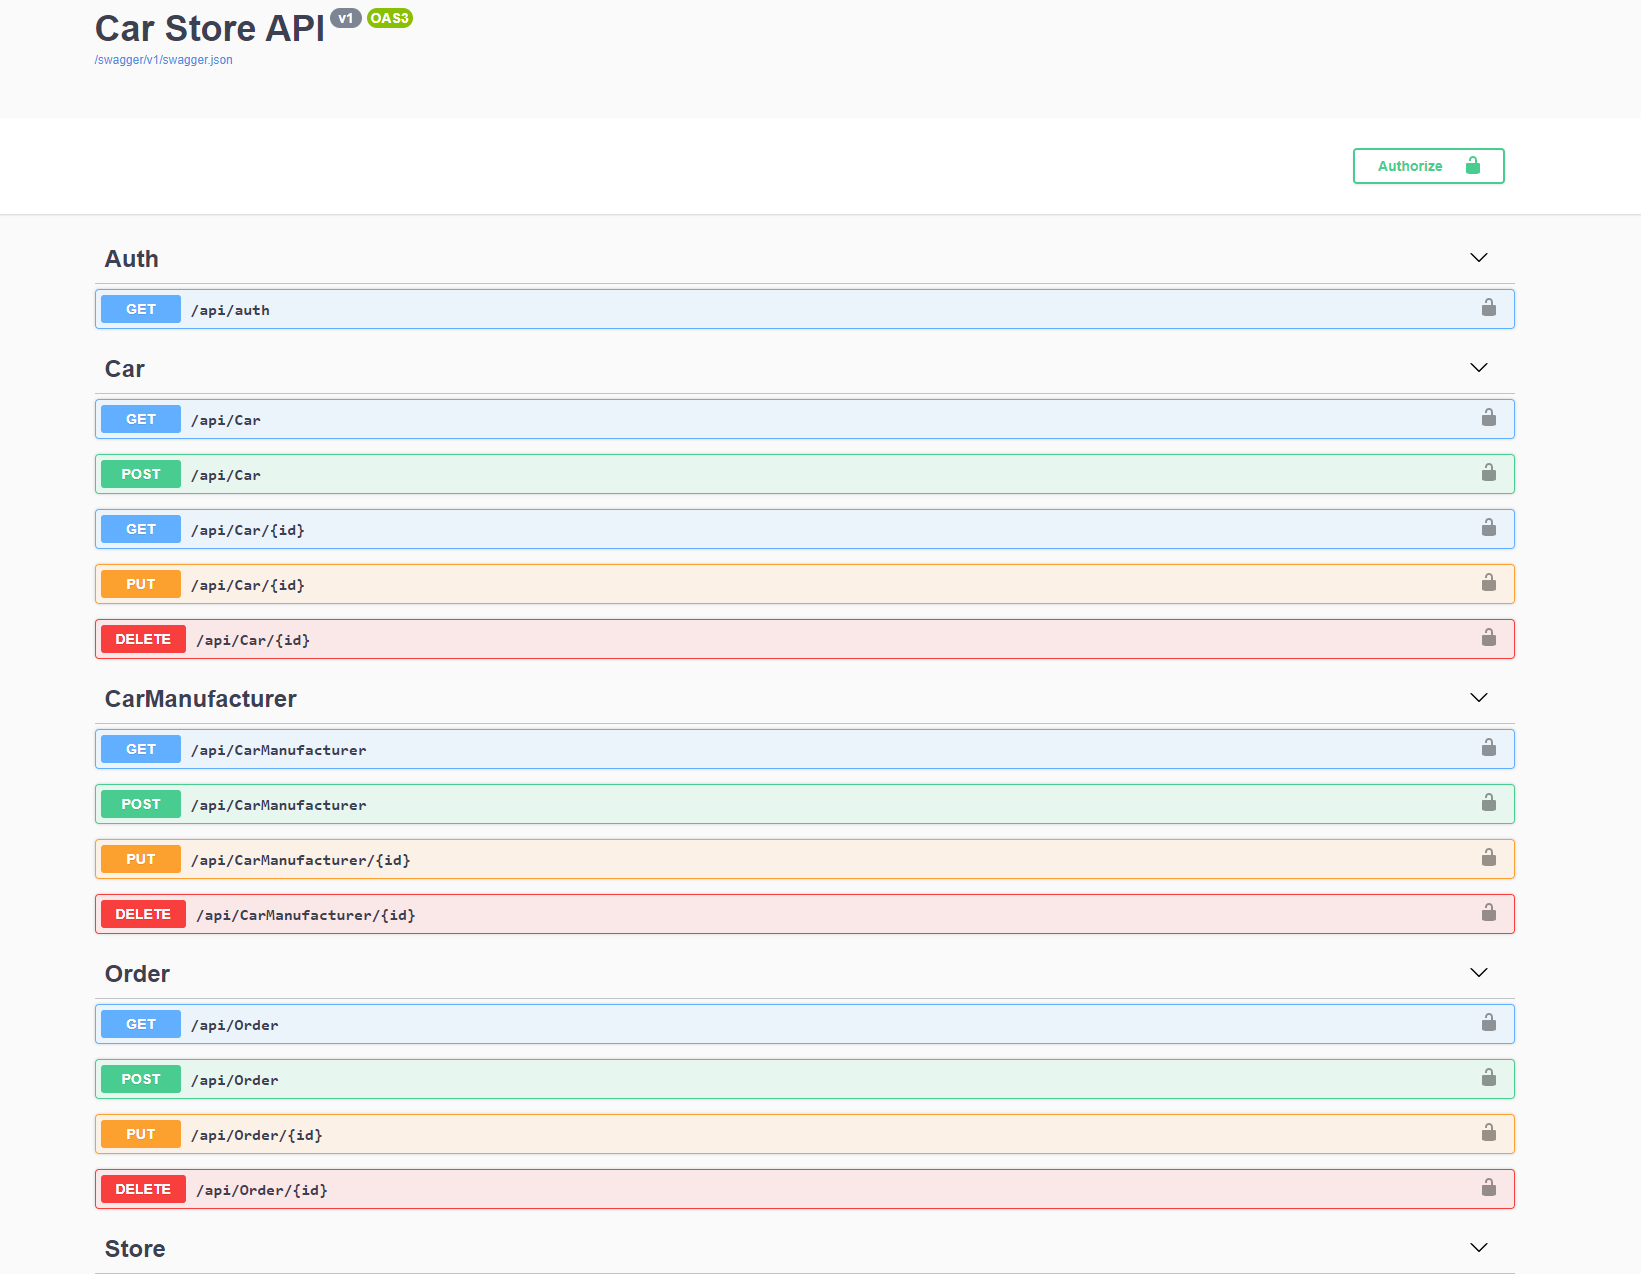
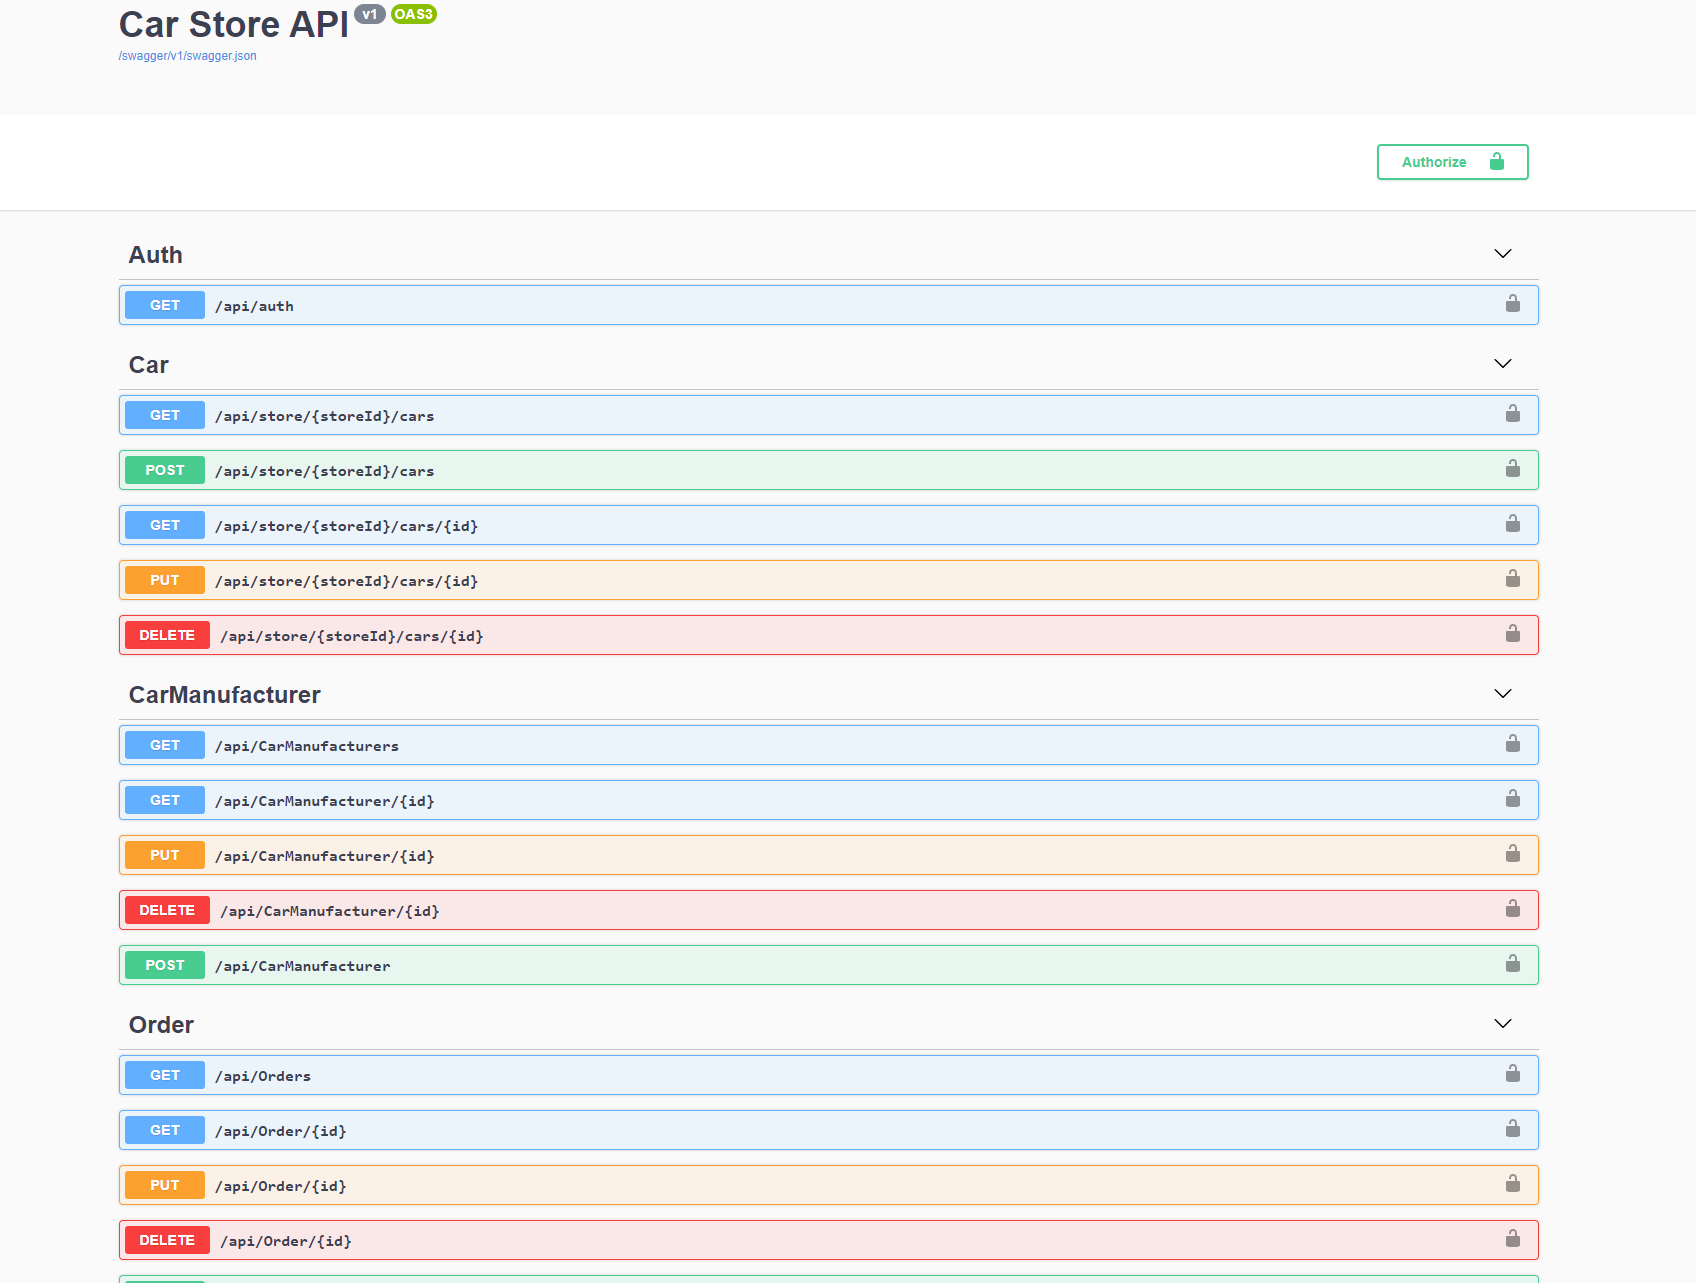
created endpoints for "child" resources

diff --git a/Project/CarStore/Controllers/CarController.cs b/Project/CarStore/Controllers/CarController.cs
@@ -1,5 +1,7 @@
-using System.Collections.Generic;
+using System;
+using System.Collections.Generic;
 using System.Linq;
+using System.Threading;
 using System.Threading.Tasks;
 using AutoMapper;
 using CarStore.API.Extensions;
@@ -10,10 +12,11 @@ using CarStore.Domain.Services;
 using CarStore.Domain.Services.Communication;
 using Microsoft.AspNetCore.Authorization;
 using Microsoft.AspNetCore.Mvc;
+using Microsoft.EntityFrameworkCore.Diagnostics;
 
 namespace CarStore.API.Controllers
 {
-    [Route("api/[controller]")]
+    [Route("api/store/{storeId}/cars")]
     [Authorize]
     public class CarController : BaseController
     {
@@ -29,18 +32,23 @@ namespace CarStore.API.Controllers
         }
 
         [HttpGet]
-        public async Task<IEnumerable<CarResource>> GetAllAsync()
+        public async Task<IEnumerable<CarResource>> GetAllAsync(int storeId, CancellationToken token)
         {
-            var cars = await _carService.ListAsync();
+            var cars = await _carService.ListAsync(storeId, token);
             var resources = _mapper.Map<IEnumerable<Car>, IEnumerable<CarResource>>(cars);
 
             return resources;
         }
 
         [HttpGet("{id}")]
-        public async Task<IActionResult> GetAsync(int id)
+        public async Task<IActionResult> GetAsync(int storeId, int id)
         {
-            var car = await _carService.GetAsync(id);
+            if (storeId < 0 || id < 0)
+            {
+                throw new ArgumentException("Negative parameter exception");
+            }
+
+            var car = await _carService.GetAsync(storeId, id);
             if (car == null)
             {
                 return NotFound();
@@ -53,11 +61,11 @@ namespace CarStore.API.Controllers
             var resource = _mapper.Map<Car, CarResource>(car);
 
             return Ok(resource);
-
         }
 
+
         [HttpPost]
-        public async Task<IActionResult> PostAsync([FromBody] SaveCarResource resource)
+        public async Task<IActionResult> PostAsync(int storeId, [FromBody] SaveCarResource resource)
         {
             if (!ModelState.IsValid)
             {
@@ -66,7 +74,7 @@ namespace CarStore.API.Controllers
 
             var carModel = _mapper.Map<SaveCarResource, Car>(resource);
 
-            var result = await _carService.SaveAsync(carModel);
+            var result = await _carService.SaveAsync(storeId, carModel);
 
             if (!result.Success)
             {
@@ -79,7 +87,7 @@ namespace CarStore.API.Controllers
         }
 
         [HttpPut("{id}")]
-        public async Task<IActionResult> PutAsync(int id, [FromBody] SaveCarResource resource)
+        public async Task<IActionResult> PutAsync(int storeId, int id, [FromBody] SaveCarResource resource)
         {
             if (!ModelState.IsValid)
             {
@@ -95,7 +103,7 @@ namespace CarStore.API.Controllers
 
             var carModel = _mapper.Map<SaveCarResource, Car>(resource);
 
-            var result = await _carService.UpdateAsync(id, carModel, ETag);
+            var result = await _carService.UpdateAsync(storeId, id, carModel, ETag);
 
             if (!result.Success)
             {

diff --git a/Project/CarStore/Services/CarService.cs b/Project/CarStore/Services/CarService.cs
@@ -1,10 +1,12 @@
 using System;
 using System.Collections.Generic;
 using System.Linq;
+using System.Threading;
 using System.Threading.Tasks;
 using AutoMapper;
 using CarStore.API.Helpers;
 using CarStore.API.Resource;
+using CarStore.Domain.DataAccess.Repositories;
 using CarStore.Domain.Models;
 using CarStore.Domain.Repositories;
 using CarStore.Domain.Services;
@@ -17,26 +19,35 @@ namespace CarStore.API.Services
     public class CarService : ICarService
     {
         private readonly ICarRepository _carRepository;
+        private readonly IStoreRepository _storeRepository;
         private readonly IUnitOfWork _unitOfWork;
 
-        public CarService(ICarRepository carRepository, IUnitOfWork unitOfWork)
+        public CarService(ICarRepository carRepository, IStoreRepository storeRepository, IUnitOfWork unitOfWork)
         {
             _carRepository = carRepository;
+            _storeRepository = storeRepository;
             _unitOfWork = unitOfWork;
         }
 
-        public async Task<Car> GetAsync(int id)
+        public async Task<IEnumerable<Car>> ListAsync(int storeId, CancellationToken token)
         {
-            return await _carRepository.FindByIdAsync(id);
+            return await _carRepository.ListAsync(storeId, token);
         }
 
-        public async Task<IEnumerable<Car>> ListAsync()
+        public async Task<Car> GetAsync(int storeId, int id)
         {
-            return await _carRepository.ListAsync();
+            return await _carRepository.FindStoreCarAsync(storeId, id);
         }
 
-        public async Task<CarResponse> SaveAsync(Car car)
+        public async Task<CarResponse> SaveAsync(int storeId, Car car)
         {
+            var store = await _storeRepository.FindByIdAsync(storeId);
+            if (store == null)
+            {
+                return new CarResponse("Store not found.");
+            }
+
+            car.Store = store;
             try
             {
                 await _carRepository.AddAsync(car);
@@ -52,9 +63,15 @@ namespace CarStore.API.Services
         }
 
 
-        public async Task<CarResponse> UpdateAsync(int id, Car car, string ETag)
+        public async Task<CarResponse> UpdateAsync(int storeId, int id, Car car, string ETag)
         {
             var existingCar = await _carRepository.FindByIdAsync(id);
+
+            var store = await _storeRepository.FindByIdAsync(storeId);
+            if (store == null)
+            {
+                return new CarResponse("Store not found.");
+            }
 
             if (existingCar == null)
             {
@@ -77,7 +94,7 @@ namespace CarStore.API.Services
             existingCar.TransmissionType = car.TransmissionType;
             existingCar.CarHolderId = car.CarHolderId;
             existingCar.CarManufacturerId = car.CarManufacturerId;
-            existingCar.LastModified = DateTime.Now;;
+            existingCar.LastModified = DateTime.Now;
 
             try
             {

diff --git a/Project/CarStore.Domain/DataAccess/Repositories/CarRepository.cs b/Project/CarStore.Domain/DataAccess/Repositories/CarRepository.cs
@@ -1,6 +1,7 @@
 using System;
 using System.Collections.Generic;
 using System.Linq;
+using System.Threading;
 using System.Threading.Tasks;
 using CarStore.Domain.DataAccess.Contexts;
 using CarStore.Domain.Models;
@@ -15,9 +16,12 @@ namespace CarStore.Domain.DataAccess.Repositories
         {
         }
 
-        public async Task<IEnumerable<Car>> ListAsync()
+        public async Task<IEnumerable<Car>> ListAsync(int storeId, CancellationToken token)
         {
-            return await _context.Cars.ToListAsync();
+            return await _context.Cars
+                .Include(c => c.Store)
+                .Where(c => c.Store.Id == storeId)
+                .ToListAsync(token);
         }
 
         public async Task AddAsync(Car car)
@@ -40,6 +44,23 @@ namespace CarStore.Domain.DataAccess.Repositories
         public void Remove(Car car)
         {
             _context.Cars.Remove(car);
+        }
+
+        public async Task<Car> FindStoreCarAsync(int storeId, int id)
+        {
+            return await _context.Cars
+                .Include(c => c.Store)
+                .Where(c => c.Store.Id == storeId)
+                .Where(c => c.Id == id)
+                .FirstOrDefaultAsync();
+        }
+
+        public async Task<IEnumerable<Car>> GetCarList(int storeId)
+        {
+            return await _context.Cars
+                .Include(c => c.Store)
+                .Where(c => c.Store.Id == storeId)
+                .ToListAsync();
         }
     }
 }

diff --git a/Project/CarStore/Startup.cs b/Project/CarStore/Startup.cs
@@ -32,6 +32,13 @@ namespace CarStore.API
         public void ConfigureServices(IServiceCollection services)
         {
             services.AddResponseCaching();
+            services.AddMemoryCache();
+            //add redis cache
+            services.AddDistributedRedisCache(option =>
+            {
+                option.Configuration = "127.0.0.1";
+                option.InstanceName = "master";
+            });
 
             services.AddDbContext<ApiDbContext>(options =>
                 options.UseSqlServer(this.Configuration.GetConnectionString("DefaultConnection"), b => b.MigrationsAssembly("CarStore.API")));
@@ -69,6 +76,7 @@ namespace CarStore.API
                 });
             });
 
+            services.AddScoped<ISimpleLogger, SimpleLogger>();
             services.AddScoped<INotificationService, NotificationService>();
 
             services.AddScoped<ICarService, CarService>();

diff --git a/Project/CarStore.Domain/Services/ICarService.cs b/Project/CarStore.Domain/Services/ICarService.cs
@@ -1,6 +1,7 @@
 using System;
 using System.Collections.Generic;
 using System.Linq;
+using System.Threading;
 using System.Threading.Tasks;
 using CarStore.Domain.Models;
 using CarStore.Domain.Services.Communication;
@@ -9,11 +10,11 @@ namespace CarStore.Domain.Services
 {
     public interface ICarService
     {
-        Task<Car> GetAsync(int id);
-        Task<IEnumerable<Car>> ListAsync();
-        Task<CarResponse> SaveAsync(Car car);
+        Task<Car> GetAsync(int storeId, int id);
+        Task<IEnumerable<Car>> ListAsync(int storeId, CancellationToken token);
+        Task<CarResponse> SaveAsync(int storeId, Car car);
 
-        Task<CarResponse> UpdateAsync(int id, Car car, string ETag);
+        Task<CarResponse> UpdateAsync(int storeId, int id, Car car, string ETag);
         Task<CarResponse> DeleteAsync(int id);
     }
 

diff --git a/Project/CarStore/Controllers/ORderController.cs b/Project/CarStore/Controllers/ORderController.cs
@@ -21,14 +21,17 @@ namespace CarStore.API.Controllers
     {
         private readonly IOrderService _orderService;
         private readonly IMapper _mapper;
+        private readonly INotificationService _notificationService;
 
-        public OrderController(IOrderService orderService, IMapper mapper)
+        public OrderController(IOrderService orderService, IMapper mapper, INotificationService notificationService)
         {
             _orderService = orderService;
             _mapper = mapper;
+            _notificationService = notificationService;
         }
 
         [HttpGet]
+        [Route("/api/Orders")]
         public async Task<IEnumerable<OrderResource>> GetAllAsync()
         {
             var resource = await _orderService.ListAsync();

diff --git a/Project/CarStore/Migrations/20200721102048_initialCreate.Designer.cs b/Project/CarStore/Migrations/20200721102048_initialCreate.Designer.cs
@@ -4,14 +4,16 @@ using CarStore.Domain.DataAccess.Contexts;
 using Microsoft.EntityFrameworkCore;
 using Microsoft.EntityFrameworkCore.Infrastructure;
 using Microsoft.EntityFrameworkCore.Metadata;
+using Microsoft.EntityFrameworkCore.Migrations;
 using Microsoft.EntityFrameworkCore.Storage.ValueConversion;
 
 namespace CarStore.API.Migrations
 {
     [DbContext(typeof(ApiDbContext))]
-    partial class ApiDbContextModelSnapshot : ModelSnapshot
+    [Migration("20200721102048_initialCreate")]
+    partial class initialCreate
     {
-        protected override void BuildModel(ModelBuilder modelBuilder)
+        protected override void BuildTargetModel(ModelBuilder modelBuilder)
         {
 #pragma warning disable 612, 618
             modelBuilder

diff --git a/Project/CarStore.Domain/Repositories/ICarRepository.cs b/Project/CarStore.Domain/Repositories/ICarRepository.cs
@@ -1,6 +1,7 @@
 using System;
 using System.Collections.Generic;
 using System.Linq;
+using System.Threading;
 using System.Threading.Tasks;
 using CarStore.Domain.Models;
 
@@ -8,12 +9,13 @@ namespace CarStore.Domain.Repositories
 {
     public interface ICarRepository
     {
-        Task<IEnumerable<Car>> ListAsync();
+        Task<IEnumerable<Car>> ListAsync(int storeId, CancellationToken token);
         Task AddAsync(Car car);
         Task<Car> FindByIdAsync(int id);
 
         void Update(Car car);
 
         void Remove(Car car);
+        Task<Car> FindStoreCarAsync(int storeId, int id);
     }
 }

diff --git a/Project/CarStore/Controllers/StoreController.cs b/Project/CarStore/Controllers/StoreController.cs
@@ -32,6 +32,7 @@ namespace CarStore.API.Controllers
         }
 
         [HttpGet]
+        [Route("/api/Stores")]
         public async Task<IEnumerable<StoreResource>> GetAllAsync()
         {
             var stores = await _storeService.ListAsync();
@@ -58,6 +59,7 @@ namespace CarStore.API.Controllers
             return Ok(resource);
         }
 
+       
         [HttpPost]
         public async Task<IActionResult> PostAsync([FromBody] SaveStoreResource resource)
         {

diff --git a/Project/CarStore.Domain/Models/Car.cs b/Project/CarStore.Domain/Models/Car.cs
@@ -24,6 +24,7 @@ namespace CarStore.Domain.Models
         public User CarHolder { get; set; }
         public int CarManufacturerId { get; set; }
         public CarManufacturer CarManufacturer { get; set; }
+        public Store Store { get; set; }
         public IList<CarPhotos> CarPhotos { get; set; }
         public DateTime LastModified { get; set; }
         [Timestamp]

diff --git a/Project/CarStore/Migrations/20200721102048_initialCreate.cs b/Project/CarStore/Migrations/20200721102048_initialCreate.cs
@@ -1,0 +1,17 @@
+using Microsoft.EntityFrameworkCore.Migrations;
+
+namespace CarStore.API.Migrations
+{
+    public partial class initialCreate : Migration
+    {
+        protected override void Up(MigrationBuilder migrationBuilder)
+        {
+
+        }
+
+        protected override void Down(MigrationBuilder migrationBuilder)
+        {
+
+        }
+    }
+}

diff --git a/Project/CarStore/Controllers/CarManufacturerController.cs b/Project/CarStore/Controllers/CarManufacturerController.cs
@@ -32,6 +32,7 @@ namespace CarStore.API.Controllers
         }
 
         [HttpGet]
+        [Route("/api/CarManufacturers")]
         public async Task<IEnumerable<CarManufacturerResource>> GetAllAsync()
         {
             var manufacturers = await _carManufacturerService.ListAsync();
